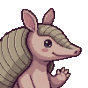
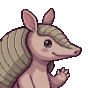
물든 콩이 대화 초상화를 나노바나나 그림으로(칸 35): 흰빛 하늘색 눈을 옅지만 분명한 하늘빛으로(눈 밝히기에 채도 인자). 배경색을 네 점 평균으로 잡다 등딱지 위 점 탓에 배경이 안 지워지던 것을 튀는 점을 빼고 잡게 고침, 콩이 보통·기쁨의 베이지 테두리도 사라짐(0122)
Claude-Session: https://claude.ai/code/session_01VNXEyeHwdhsn4oiHYXtNpM

diff --git a/tools/art/ai_portraits.py b/tools/art/ai_portraits.py
@@ -47,6 +47,8 @@ CHARACTERS = {
     'susu': (33, ('normal', 'happy'), 1.0, 16),
     # 콩이: 원본이 칸을 채워 틀은 그대로. 주둥이 위 머리 판의 밝은 테두리가 배경색과 가까워 틈 지우기(HOLES)는 켜지 않는다.
     'kongi': (36, ('normal', 'happy'), None, 16),
+    # 물든 콩이: 콩이 보통 표정을 고쳐 그려 틀이 같다. 눈은 옅은 하늘빛 빛(0054).
+    'kongi_tainted': (35, ('glare',), None, 16),
 }
 # 크림색 가슴이 원본 아래 끝에 닿는 캐릭터: 배경 지우기를 아래 끝에서 시작하지 않는다(_character_mask).
 CHEST_AT_BOTTOM = {'momo', 'momo_tainted', 'halmae', 'doto', 'doto_tainted'}
@@ -125,13 +127,14 @@ HALO = {
     'chief': CHIEF_KEEP,
 }
 # 보랏빛 눈 팔레트(EYE_COLORS)를 떼지 않는 캐릭터: 들쥐 대장은 눈이 빨강이고 털이 보라 기운 잿빛이라,
-# 떼면 털이 그 칸을 다 차지해 보라 실이 털 색과 묶였다(흰 줄로 보였다). 실은 채도 칸으로 간다. 물든 도토도 털이 보라 기운이라 같다.
-NO_EYE_SPLIT = {'chief', 'doto_tainted'}
+# 떼면 털이 그 칸을 다 차지해 보라 실이 털 색과 묶였다(흰 줄로 보였다). 실은 채도 칸으로 간다. 물든 도토·콩이도 털이 보라 기운이라 같다.
+NO_EYE_SPLIT = {'chief', 'doto_tainted', 'kongi_tainted'}
 
-def _glow_eyes(img, boxes, hues, out_hue):
+def _glow_eyes(img, boxes, hues, out_hue, min_sat=0.4, out_sat=0.82):
     """눈 상자 안의 빛 색(색상이 hues 안, 채도 > 0.4)을 밝고 진하게. 흰 반사·검은 선은 그대로.
     물든 눈은 88px로 줄이면 흐려져 빛나는 눈으로 읽히지 않았다(들쥐 대장은 검붉게, 물든 도토는 흐린 주황 갈색).
-    실에 묶인 동물 = 작게 빛나는 눈이 이야기 약속이다(nano-banana-prompts.md 세계 규칙). hues = (낮은 끝, 높은 끝), 0을 넘어가면 낮은 끝 > 높은 끝."""
+    실에 묶인 동물 = 작게 빛나는 눈이 이야기 약속이다(nano-banana-prompts.md 세계 규칙). hues = (낮은 끝, 높은 끝), 0을 넘어가면 낮은 끝 > 높은 끝.
+    min_sat·out_sat: 옮길 점의 채도 문턱과 옮긴 채도. 물든 콩이의 홍채는 채도 0.21의 흰빛 하늘색이라 문턱을 낮추고, 옅은 하늘빛이 남게 0.45로."""
     lo, hi = hues
     sx = img.width / 1024
     px = img.load()
@@ -140,8 +143,8 @@ def _glow_eyes(img, boxes, hues, out_hue):
             for x in range(int(x0 * sx), int(x1 * sx)):
                 h, s, v = _hsv(px[x, y])
                 inside = (lo <= h <= hi) if lo <= hi else (h >= lo or h <= hi)
-                if inside and s > 0.4 and v > 0.18:
-                    r, g, b = colorsys.hsv_to_rgb(out_hue, 0.82, min(1.0, 0.62 + v * 0.6))
+                if inside and s > min_sat and v > 0.18:
+                    r, g, b = colorsys.hsv_to_rgb(out_hue, out_sat, min(1.0, 0.62 + v * 0.6))
                     px[x, y] = (int(r * 255), int(g * 255), int(b * 255))
 
 
@@ -156,8 +159,22 @@ FIXES['chief_glare'] = lambda img: _glow_eyes(img, CHIEF_KEEP[2:], (0.95, 0.05),
 # 물든 도토 눈 상자(원본 1024px): 왼눈·오른눈. 호박색(색상 0.05~0.14)을 꿀빛으로.
 DOTO_TAINTED_EYES = [(545, 480, 690, 610), (770, 480, 870, 610)]
 FIXES['doto_tainted_glare'] = lambda img: _glow_eyes(img, DOTO_TAINTED_EYES, (0.05, 0.14), 0.09)
+# 물든 콩이 눈 상자(원본 1024px). 흰빛 하늘색(색상 0.45~0.62, 채도 0.12 넘음)을 옅지만 분명한 하늘빛으로(0054).
+KONGI_TAINTED_EYES = [(490, 460, 630, 570)]
+FIXES['kongi_tainted_glare'] = lambda img: _glow_eyes(img, KONGI_TAINTED_EYES, (0.45, 0.62), 0.54, 0.12, 0.45)
 for _face in ('normal', 'happy', 'worried', 'tainted_normal', 'tainted_pained'):
     FIXES[f'momo_{_face}'] = lambda img: _plum_lines(img, MOMO_EYES)
+
+
+def _bg_color(img):
+    """배경색: 위 두 모서리와 좌우 가운데 네 점의 평균. 네 점 가운데 나머지와 먼(거리 40 넘는) 점은 뺀다.
+    물든 콩이는 왼쪽 가운데가 짙은 등딱지 위라 평균이 배경에서 벗어나, 배경이 하나도 지워지지 않았다(0122)."""
+    w, h = img.size
+    px = img.load()
+    pts = [px[0, 0], px[w - 1, 0], px[0, h // 2], px[w - 1, h // 2]]
+    dist = lambda a, b: sum((a[i] - b[i]) ** 2 for i in range(3)) ** 0.5
+    keep = [p for p in pts if sorted(dist(p, q) for q in pts)[2] <= 40] or pts
+    return tuple(sum(c[i] for c in keep) // len(keep) for i in range(3))
 
 
 def _character_mask(img, tol=34, from_bottom=True):
@@ -166,8 +183,7 @@ def _character_mask(img, tol=34, from_bottom=True):
     모모는 크림색 가슴이 아래 끝에 닿고 배경 베이지와 가까워 켜면 가슴이 통째로 투명해진다(CHEST_AT_BOTTOM)."""
     w, h = img.size
     px = img.load()
-    corners = [px[0, 0], px[w - 1, 0], px[0, h // 2], px[w - 1, h // 2]]
-    bg = tuple(sum(c[i] for c in corners) // len(corners) for i in range(3))
+    bg = _bg_color(img)
     near_bg = lambda c: sum((c[i] - bg[i]) ** 2 for i in range(3)) <= tol * tol
     is_bg = [[False] * w for _ in range(h)]
     stack = [(x, 0) for x in range(w)] + ([(x, h - 1) for x in range(w)] if from_bottom else [])
@@ -226,8 +242,7 @@ def _clear_holes(img, mask, tol=20, min_area=200):
     할매 머리 위 갓·대 사이 틈이 베이지로 남았다(사장). 크림색 몸이 배경과 가까운 캐릭터(모모 가슴)는 지워지면 안 되니 HOLES에 든 캐릭터만."""
     w, h = img.size
     px = img.load()
-    corners = [px[0, 0], px[w - 1, 0], px[0, h // 2], px[w - 1, h // 2]]
-    bg = tuple(sum(c[i] for c in corners) // len(corners) for i in range(3))
+    bg = _bg_color(img)
     near = lambda c: sum((c[i] - bg[i]) ** 2 for i in range(3)) <= tol * tol
     seen = [[False] * w for _ in range(h)]
     for y0 in range(h):

diff --git a/docs/phase-1-combat-prototype.md b/docs/phase-1-combat-prototype.md
@@ -124,7 +124,7 @@
 | 잠긴 문(0094·0096~0099) | `render.rs`(draw_root_gate·빛 패스), `sunny.rs`(FENCE_H·FENCE_V), `room.rs`(door_anim·tick_doors), `world.rs`(열릴 때 실 풀림) | 팩 나무 울타리 두 겹(가운데 칸만: 남북 39,2 · 동서 40,3, 가로대가 벽에서 벽까지, 팩이 없으면 물든 뿌리) + 가로대를 감는 보라 실, 0.35초에 솟아 닫히고 0.5초에 가라앉으며 실이 풀린다, 어둠 속에서도 실이 빛남 |
 | 어둠 지도·야광버섯·그림자(0095·0100) | `render.rs`(dark_rt·cut_material·light_sources·draw_cast_shadows·draw_mushrooms), `art.rs`(light), `biome.rs` | 빛 자리마다 어둠을 빼는 렌더 타깃, 버섯 빛 64px·세기 0.28(은은하게 넓게), 심층 버섯 14%·뿌리 지대 4%, 빛 반대쪽으로 눕는 그림자 |
 | 해·모닥불 그림자(0102~0106, 시험) | `render.rs`(draw_sun_shadows·shadow_dir·sun_shear·silhouette_material, draw_sorted의 sun), `sunny.rs`(stamp_sun_shadow), `terrain.rs`(Baker::fires), `tuning.rs`(SUN_SHADOW_*·FIRE_SHADOW_*·DECOR_LIFT_*) | 서 있는 것의 모양을 발 줄 축으로 눕혀 렌더 타깃에 모아 한 번에 얹는다. 밝은 곳은 해(오른쪽 아래), 모닥불 곁은 불 바깥쪽(150px, 멀수록 길게, 불이 아래면 더 길게 0104, 어두운 곳은 바깥으로 옅게). 모닥불 돌은 돌만 키운 모양(뒤쪽은 짧게, 0105). 그림자 패스는 몸만(빛·표시·반투명·바닥 것 제외, 밝은 곳은 타원 그림자 끔, 0106). 구운 꽃·조약돌·풀포기는 높이 비율만큼 짧게 |
-| Naïl·포포·모모(돌아옴·물듦)·보리(돌아옴·물듦)·누룩 할매·엄마·도토(돌아옴·물듦)·수수·콩이 초상화 나노바나나(0107~0121) | `tools/art/sources/ai/nail_*.png`, `tools/art/ai_portraits.py`, `tools/art/portraits.py`(sheet), `docs/art/nano-banana-prompts.md` | 표정 넷 원본 → 로고 지우기·결의 눈 색·배경 투명·88×88·한 팔레트(눈 8색 따로)·털빛 셋(주둥이·발톱은 자리로 지킴). 포포: 틀 맞추기(높이 92%)·채도 높은 색 따로. 모모: 검은 선 → 자두빛, 틀 1.22(귀 끝을 칸 맨 위에, 가슴을 칸 아래로), 가슴이 지워지지 않게 아래 끝 번지기 끔. 물든 모모: 같은 틀, 실은 굵게·위로, 눈은 선명한 초록으로 고쳐 그림, 흰빛은 보랏빛으로 물들임. 보리: 시트를 통통하게 고쳐 그림, 틀 그대로. 들쥐 대장: 보리를 고쳐 그림, 눈 팔레트 안 뗌(보라 기운 털), 빨간 눈 밝게. 할매: 시트의 둥근 얼굴 판으로 표정 짝, 둘러싸인 배경 틈 지움. 엄마: Naïl 초상화를 함께 넣고 털을 짙고 매끈하게, 앞발은 따로 고쳐 그림. Naïl 결의: 덜 표독스럽게 다시 그림, 팔레트를 얼려 다른 칸은 그대로. 도토: 시트에서 조끼·보라 꽃·리본 빼고, 몸이 잘린 줄까지만 써 배 구멍 막음. 물든 도토: 도토를 고쳐 그림, 호박색 눈 밝게. 수수: 생김새 글을 새로 쓰고 삽발을 칸 아래에. 콩이: 3/4 모습 기준, 토끼 귀가 아닌 뾰족한 귀. 다른 캐릭터는 다음 차례 |
+| Naïl·포포·모모(돌아옴·물듦)·보리(돌아옴·물듦)·누룩 할매·엄마·도토(돌아옴·물듦)·수수·콩이(돌아옴·물듦) 초상화 나노바나나(0107~0122, 이웃 그림자 칸 4 말고 모두) | `tools/art/sources/ai/nail_*.png`, `tools/art/ai_portraits.py`, `tools/art/portraits.py`(sheet), `docs/art/nano-banana-prompts.md` | 표정 넷 원본 → 로고 지우기·결의 눈 색·배경 투명·88×88·한 팔레트(눈 8색 따로)·털빛 셋(주둥이·발톱은 자리로 지킴). 포포: 틀 맞추기(높이 92%)·채도 높은 색 따로. 모모: 검은 선 → 자두빛, 틀 1.22(귀 끝을 칸 맨 위에, 가슴을 칸 아래로), 가슴이 지워지지 않게 아래 끝 번지기 끔. 물든 모모: 같은 틀, 실은 굵게·위로, 눈은 선명한 초록으로 고쳐 그림, 흰빛은 보랏빛으로 물들임. 보리: 시트를 통통하게 고쳐 그림, 틀 그대로. 들쥐 대장: 보리를 고쳐 그림, 눈 팔레트 안 뗌(보라 기운 털), 빨간 눈 밝게. 할매: 시트의 둥근 얼굴 판으로 표정 짝, 둘러싸인 배경 틈 지움. 엄마: Naïl 초상화를 함께 넣고 털을 짙고 매끈하게, 앞발은 따로 고쳐 그림. Naïl 결의: 덜 표독스럽게 다시 그림, 팔레트를 얼려 다른 칸은 그대로. 도토: 시트에서 조끼·보라 꽃·리본 빼고, 몸이 잘린 줄까지만 써 배 구멍 막음. 물든 도토: 도토를 고쳐 그림, 호박색 눈 밝게. 수수: 생김새 글을 새로 쓰고 삽발을 칸 아래에. 콩이: 3/4 모습 기준, 토끼 귀가 아닌 뾰족한 귀. 물든 콩이: 하늘빛 눈 밝히기, 배경색 잡기를 튀는 점에 강하게. 다른 캐릭터는 다음 차례 |
 | 웨이브 | `world.rs`, `scenario.rs` | 지금은 개발 시나리오(아레나·웨이브 3부터)에서만. 적을 다 잡으면 1.2초 뒤 다음 웨이브(1C+1S → 2C+1S → 2C+2S → 3C+2S). 명세엔 없지만 5분 플레이 판정을 위해 넣음 |
 
 확인한 것: 데스크톱(Xvfb) 실행 캡처로 렌더 방향·공격 반원·굴파기·히트박스 표시, 헤드리스 Chromium으로 웹 빌드 로드·입력·콘솔(mismatch 없음). 확인 못 한 것: 실제 손맛(판정 1~4), 실기 게임패드, 소리의 실제 느낌(컨테이너에 오디오 장치 없음).

diff --git a/assets/LICENSES.md b/assets/LICENSES.md
@@ -8,7 +8,7 @@
 | `fonts/OFL-ArkPixel.txt` | Ark Pixel 레포 `LICENSE-OFL` | — | Ark Pixel의 OFL 원문. 일본어·간체 폰트와 함께 배포 |
 | `art/nail.png` | 직접 그림. 원본 `tools/art/nail.py` | © 2026 Beardworks | Naïl 스프라이트 v2(idle·walk·attack·hurt·dead·흙더미·그림자 + 흰 실루엣) |
 | `art/nail_fur1~3.png` | 직접 그림. 원본 `tools/art/nail.py`(털 색만 바꿈) | © 2026 Beardworks | 털빛 잿빛·밤빛·모래빛(저널 보상, docs/decisions/0048) |
-| `art/portraits.png` | 직접 그림. 원본 `tools/art/portraits.py`. **Naïl 칸 0~3·18~29, 포포 칸 5~6, 물든 모모 칸 7~8, 들쥐 대장(물든 보리) 칸 9, 보리 칸 10~11, 돌아온 모모 칸 12~14, 누룩 할매 칸 15~16, 엄마 칸 17, 도토 칸 30~32, 수수 칸 33~34, 콩이 칸 36~37**은 나노바나나(Google Gemini 이미지 모델)로 사장이 그린 원본 `tools/art/sources/ai/*.png`를 `tools/art/ai_portraits.py`가 칸으로 만든 것(2026-10-26, docs/decisions/0108·0109·0110·0112·0113·0114·0115·0116·0117·0118·0119·0120·0121). 참고 그림은 직접 그린 초상화만 넣었다(팩 그림 없음, 0064). 모든 생성 그림에 SynthID 워터마크가 들어 있다 | © 2026 Beardworks | 대화창 초상화 88×88, 한 줄 12칸(Naïl 털빛 3 × 표정 4 포함, Naïl 표정 4 + 이웃 그림자 + 라쿤 포포 2 + 물든 모모 2 + 들쥐 대장·보리 3 + 돌아온 모모 3 + 누룩 할매 2 + 엄마 두더지 1 + 도토 3 + 수수 2 + 콩이 3) |
+| `art/portraits.png` | 직접 그림. 원본 `tools/art/portraits.py`. **Naïl 칸 0~3·18~29, 포포 칸 5~6, 물든 모모 칸 7~8, 들쥐 대장(물든 보리) 칸 9, 보리 칸 10~11, 돌아온 모모 칸 12~14, 누룩 할매 칸 15~16, 엄마 칸 17, 도토 칸 30~32, 수수 칸 33~34, 콩이 칸 35~37**은 나노바나나(Google Gemini 이미지 모델)로 사장이 그린 원본 `tools/art/sources/ai/*.png`를 `tools/art/ai_portraits.py`가 칸으로 만든 것(2026-10-26, docs/decisions/0108·0109·0110·0112·0113·0114·0115·0116·0117·0118·0119·0120·0121·0122). 참고 그림은 직접 그린 초상화만 넣었다(팩 그림 없음, 0064). 모든 생성 그림에 SynthID 워터마크가 들어 있다 | © 2026 Beardworks | 대화창 초상화 88×88, 한 줄 12칸(Naïl 털빛 3 × 표정 4 포함, Naïl 표정 4 + 이웃 그림자 + 라쿤 포포 2 + 물든 모모 2 + 들쥐 대장·보리 3 + 돌아온 모모 3 + 누룩 할매 2 + 엄마 두더지 1 + 도토 3 + 수수 2 + 콩이 3) |
 | `art/critters.png` | 직접 그림. 원본 `tools/art/critters.py` | © 2026 Beardworks | 적(물든 들쥐·생쥐·시궁쥐·다람쥐·청설모)·허수아비·라쿤 포포·물든 모모·돌아온 모모·도토·돌아온 도토·수수·콩이·돌아온 콩이 16×16 + 흰 실루엣. v2 손으로 찍은 자세 |
 | `art/chief.png` | 직접 그림. 원본 `tools/art/chief.py` | © 2026 Beardworks | 튜토리얼 보스 들쥐 대장(물든 모습 8칸)·돌아온 보리(5칸) 32×32 + 흰 실루엣 |
 | `art/illust/*.png`(타이틀 바탕 `title.png`·`title_fog.png` 포함, 0083 — 타이틀은 바탕 그림 없이 코드로만) | 직접 그림(임시). 원본 `tools/art/illust.py` | © 2026 Beardworks(molehill·great_tree·last_bloom·mother_burrow·bori_freed·momo_bloom 바탕은 아래 그림들, CC0·퍼블릭 도메인) | 컷씬 일러스트 9장 640×360(2배 밀도, 일부는 패닝용으로 더 큼). 사람이 그린 그림으로 바꾸면 이 행을 작가·계약으로 고친다(docs/art/cutscene-illustrations.md) |

diff --git a/docs/decisions/0122-tainted-kongi-portrait-and-bg-color.md b/docs/decisions/0122-tainted-kongi-portrait-and-bg-color.md
@@ -1,0 +1,18 @@
+# 0122. 물든 콩이 대화 초상화(나노바나나) + 배경색 잡기 고침
+
+- 날짜: 2026-10-26
+- 상태: 채택. 0121(콩이)에 이은 열셋째이자 마지막 초상화 묶음. 이로써 이웃 그림자(칸 4)를 뺀 초상화 칸이 모두 나노바나나 그림이다.
+
+## 결정(`tools/art/ai_portraits.py` `kongi_tainted`, `tools/art/sources/ai/kongi_tainted_glare.png`)
+- 칸 35(노려봄 하나). 콩이 보통 표정을 고쳐 그려 틀이 같다. 털이 보라 기운이라 눈 팔레트를 떼지 않는다(`NO_EYE_SPLIT`).
+- **물든 눈 밝히기에 채도 인자**(`_glow_eyes(..., min_sat, out_sat)`): 홍채가 (200,255,255) 채도 0.21의 흰빛 하늘색이라 줄이면 흰자처럼 보였고, 채도 문턱 0.4에 걸려 손대지도 못했다. 문턱 0.12, 결과 채도 0.45로 "옅지만 분명한 하늘빛"(0054)을 낸다. 들쥐 대장·물든 도토 칸은 그대로다.
+- 이제 물든 세 이웃의 눈이 서로 갈린다: 들쥐 대장 빨강, 물든 도토 호박색, 물든 콩이 하늘빛(모모는 초록, 0112).
+
+## 배경색 잡기(`_bg_color`)
+- 배경색을 위 두 모서리와 좌우 가운데 네 점의 평균으로 잡았다. 물든 콩이는 왼쪽 가운데가 짙은 등딱지 위라 평균이 배경에서 크게 벗어나, 배경이 하나도 지워지지 않았다(칸 전체가 베이지 바탕째 들어갔다).
+- 네 점 가운데 나머지와 먼(거리 40 넘는) 점을 빼고 평균한다. 네 점이 모두 배경인 캐릭터는 결과가 같다.
+- 콩이 보통·기쁨(칸 36·37)도 왼쪽 가운데가 등딱지 위라 함께 바뀌었다: 귀·주둥이 둘레에 남던 베이지 테두리가 사라졌다(0121에서는 못 봤다).
+
+## 확인
+- 색까지 비교(48칸): 커밋된 시트와 다른 칸은 35·36·37뿐이다.
+- 헤드리스: 개발 → "콩이"의 첫 대사("???")에 새 그림이 나오고, 하늘빛 눈과 보라 실이 또렷하다.
